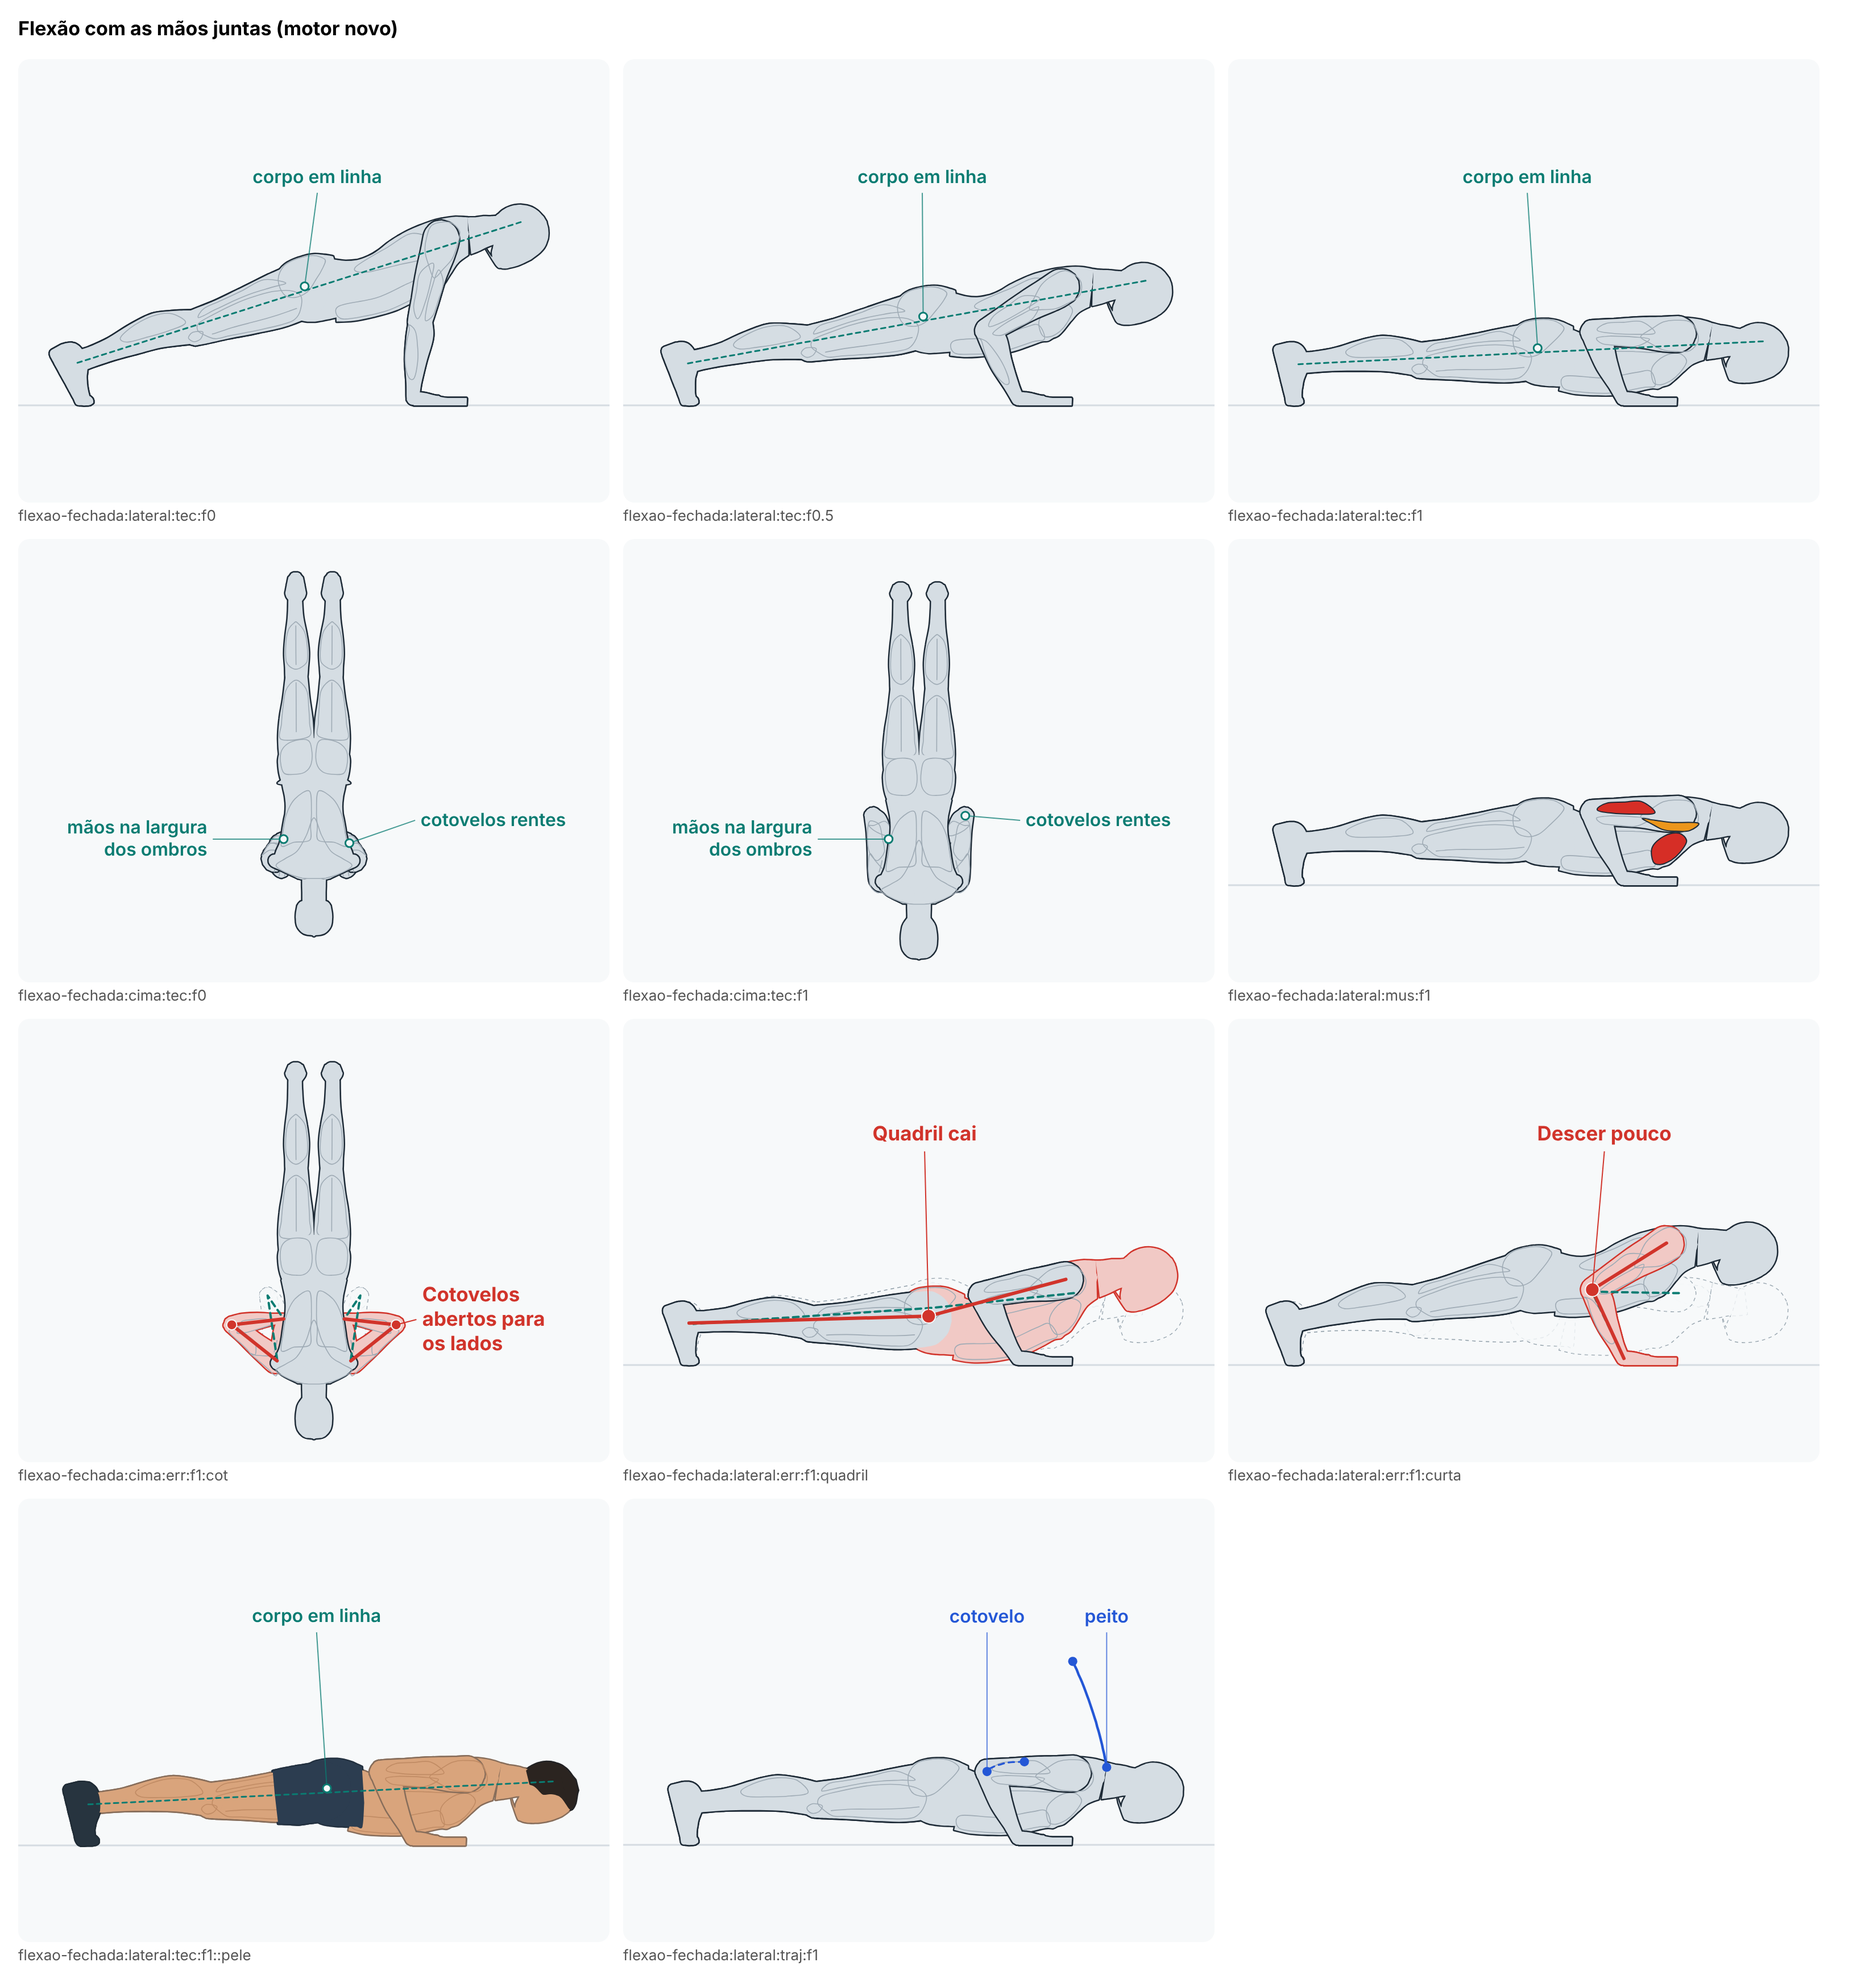
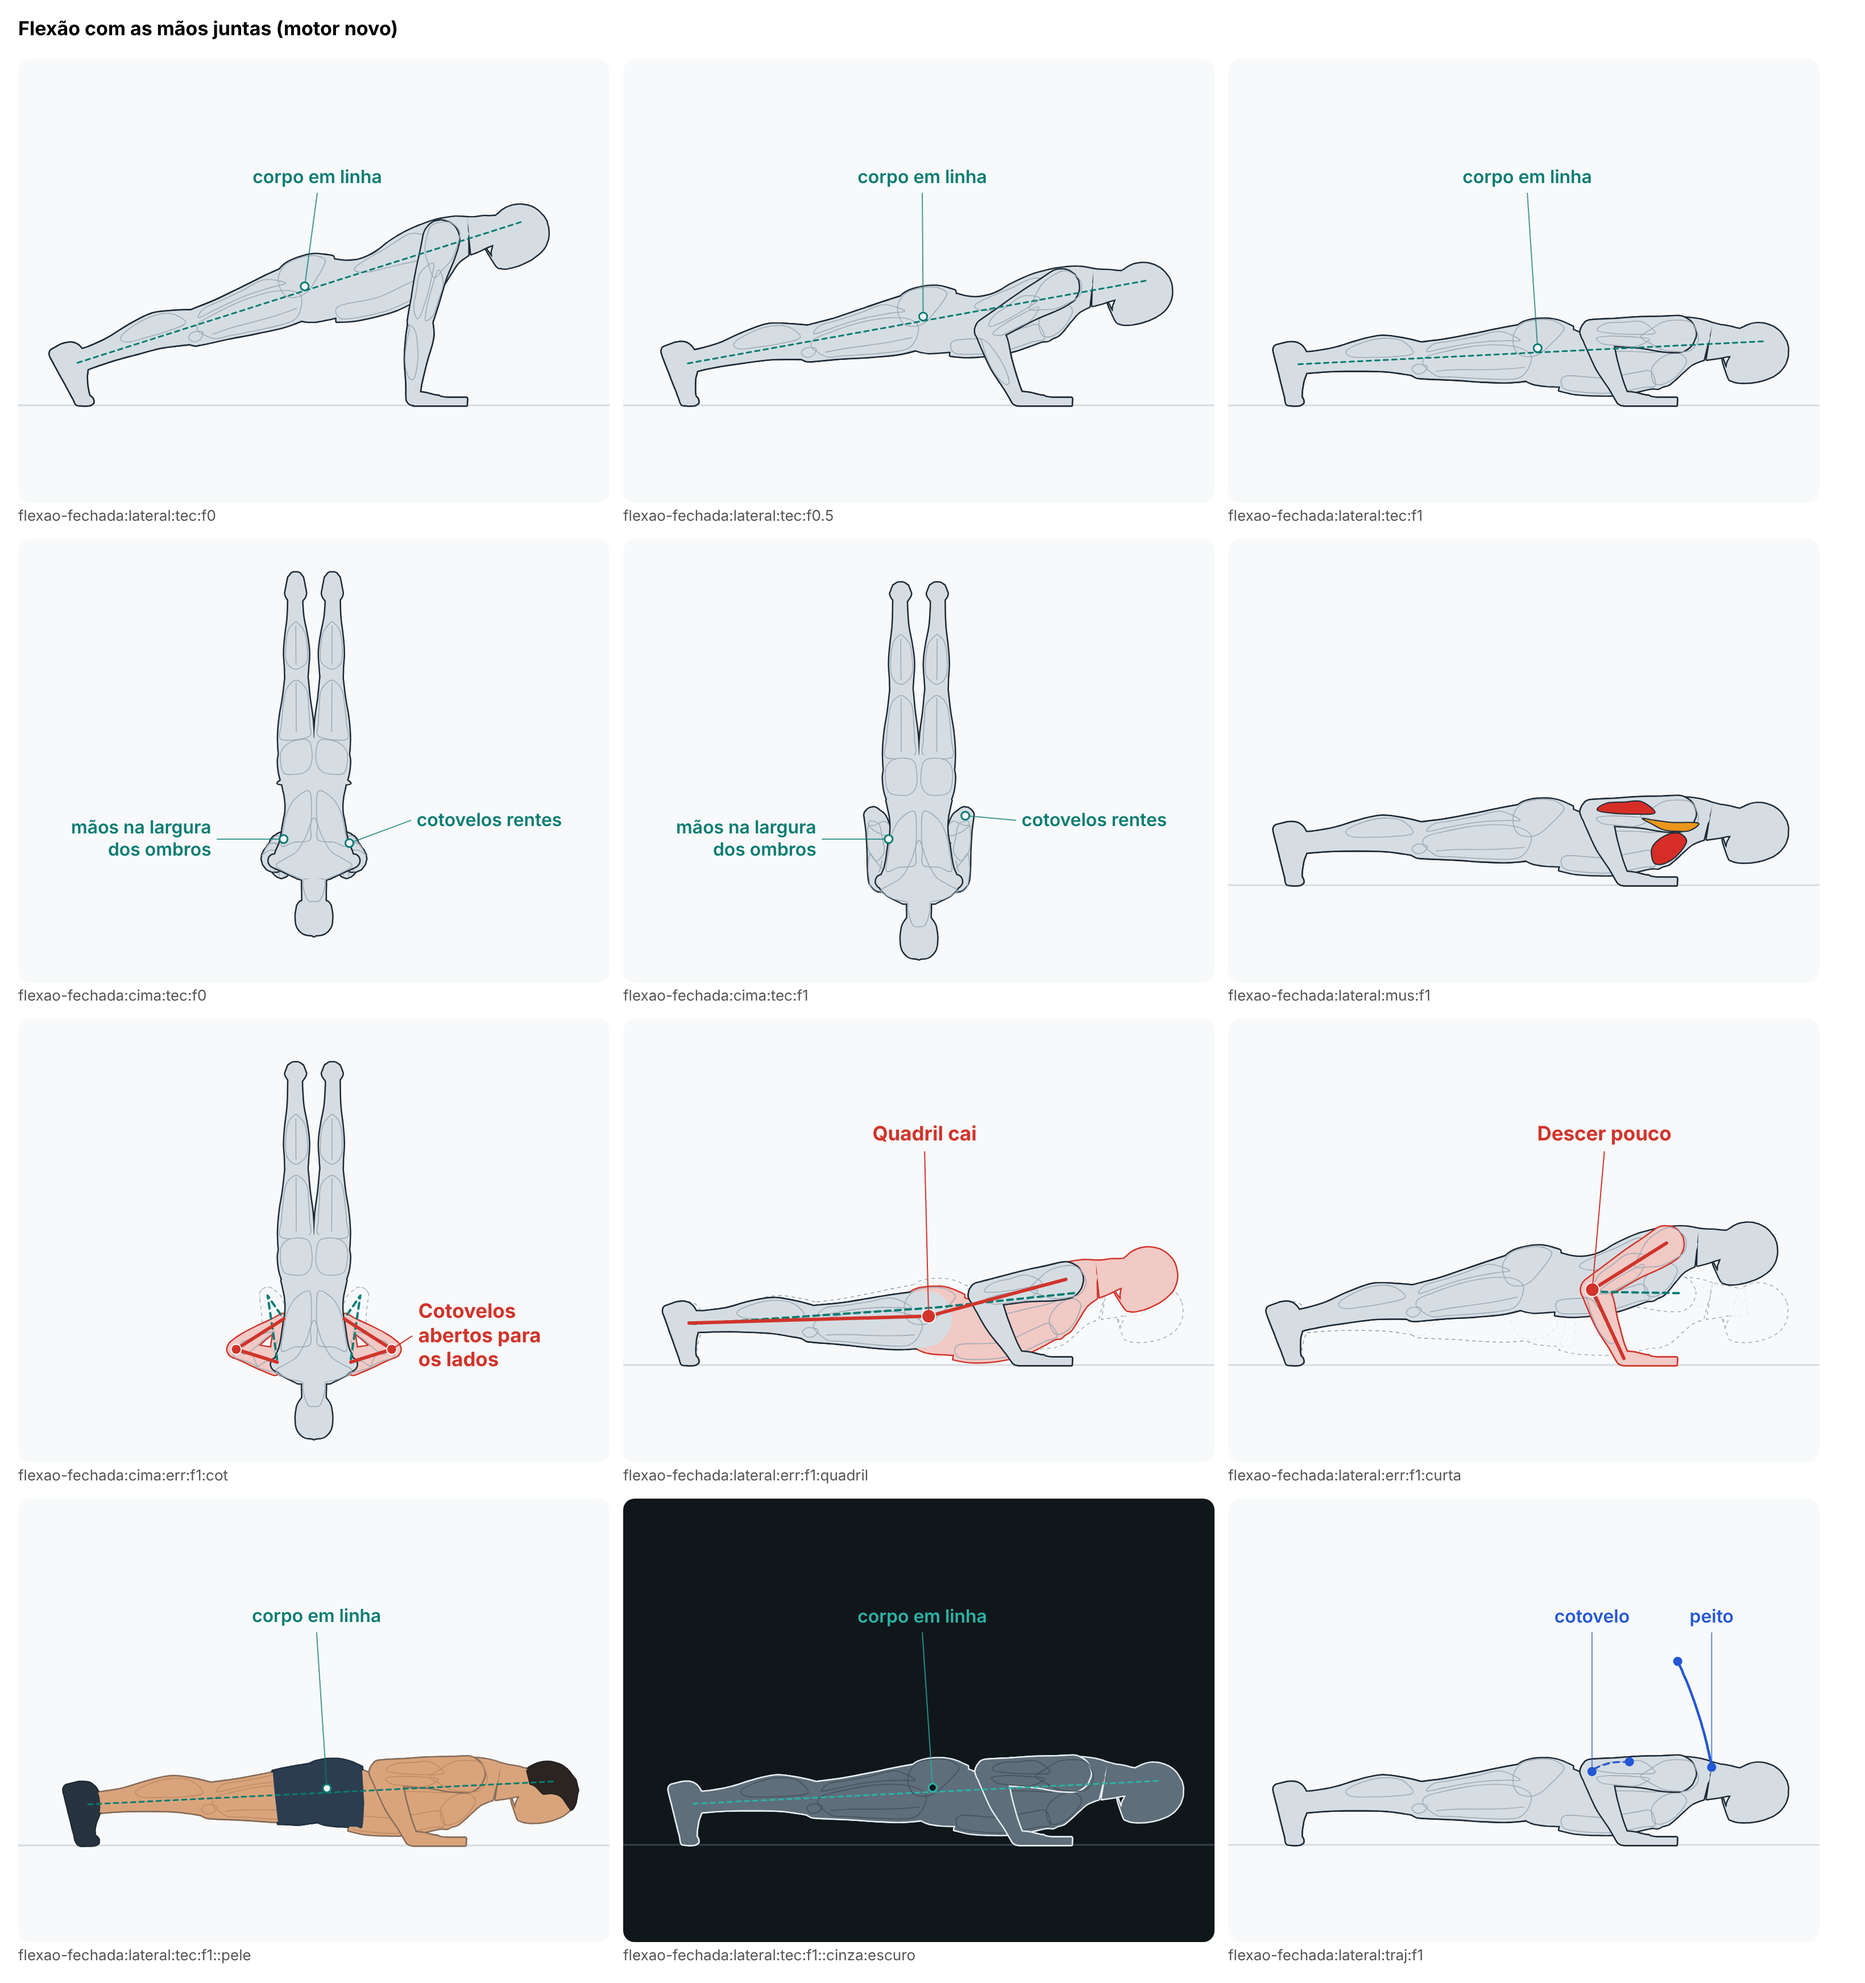
Correção: flexão com as mãos juntas com o erro dos cotovelos tão aberto quanto o da flexão
Os nove itens do padrão conferidos nos quadros grandes; a vista de cima fica (a de
três quartos e a de frente foram testadas e se leem pior).

Claude-Session: https://claude.ai/code/session_01YRzts7dTzBdkrmTDEnq8bW

diff --git a/docs/revisoes/animacao-nova/lote-2/flexao-fechada.md b/docs/revisoes/animacao-nova/lote-2/flexao-fechada.md
@@ -1,6 +1,6 @@
 # Lote 2 · Flexão de braço com as mãos juntas (`flexao-fechada`)
 
-De 15/11/2026. Primeira animação do lote 2 (as flexões). Ainda não aprovada nem ligada às telas do app.
+De 15/11/2026, revista na rodada de correção do mesmo dia (o erro dos cotovelos abre mais; os nove itens do padrão conferidos). Primeira animação do lote 2 (as flexões). Ainda não aprovada nem ligada às telas do app.
 
 - Ficha da técnica: `docs/pesquisa/animacoes/flexao-fechada.md`.
 - Ficha de movimento: `src/engine/novo/dados/movimentos/flexao-fechada.json`.
@@ -27,7 +27,7 @@ Conferência automática: **0 falha**. Avisos: extensão do punho 94,6° em cima
 
 | Erro (texto do app) | O que o boneco faz (medido) |
 |---|---|
-| Cotovelos abertos para os lados (de cima) | embaixo, o braço faz 51° com o tronco, visto de cima (o certo: 9°) |
+| Cotovelos abertos para os lados (de cima) | embaixo, o braço faz 72,5° com o tronco, visto de cima, como no erro da `flexao` (72°); o certo: 9° |
 | Quadril cai (de lado) | a lombar arqueia 16°; ombro, quadril e tornozelo fazem 167° (o certo: 178°); a barriga para a 1 cm do chão |
 | Descer pouco (de lado) | para na metade: o peito fica a 17 cm do chão e o cotovelo dobra 83° |
 
@@ -40,14 +40,23 @@ Principais: tríceps e peitoral; secundário: a frente do ombro (`deltAnt`), com
 - 12/11/2026: o abdômen firma a prancha, mas fica fora do desenho até a decisão do Gustavo. Respeitada.
 - As correções da `flexao` (mãos para fora dos ombros, o quadril que não atravessa o chão no erro) valem pelo núcleo comum; aqui as mãos ficam de propósito por dentro.
 
-## O que não ficou bom
+## Os nove itens do padrão (seção 8 do guia), nos quadros grandes
 
-- **As mãos não ficam tão embaixo do peito quanto a ficha diz.** Com 16 cm (a parte de baixo do peito), em cima o punho dobra 96,8°, acima do máximo observado (95°), e a conferência falha. Ficou em 14 cm, a 3,5 cm da linha dos mamilos: é mais "embaixo do peito" que "embaixo da parte de baixo do peito". Mesmo assim o punho fica a 0,4° do máximo, em aviso.
-- **O erro "cotovelos abertos" abre só até 51°** (na `flexao`, 72°): com as mãos juntas, o cotovelo não tem para onde ir sem a mão sair do lugar. De cima ele se lê, mas é menos gritante que o da `flexao`.
-- **De cima, embaixo, os cotovelos quase somem** sob o tronco: o rótulo "cotovelos rentes" aponta para uma ponta de cotovelo pequena.
-- **De cima, o modo Músculos não serve** (o tríceps e o peito ficam por baixo do corpo).
-- O ângulo do cotovelo (12° de direção) é o do desenho de hoje: a ficha não dá número; a regra medida é "abaixo dos 30° da faixa a meio caminho".
+1. **Corpo:** a prancha da `flexao` aprovada; nada atravessa o chão.
+2. **Rosto:** embaixo, a cabeça fica a 7,9 cm do chão.
+3. **Quadro:** o corpo ocupa o quadro como na `flexao`.
+4. **Vistas:** de lado e de cima (as mãos na largura dos ombros e os cotovelos rentes, como a ficha pede, "vista de cima"). Testei de três quartos (`quina`, `quinaTras`) e de frente: na de três quartos, os fios dos rótulos cruzam o braço, e o erro dos cotovelos aponta para quem olha; de frente, o corpo vira um borrão. Fica a de cima.
+5. **Equipamento:** não tem.
+6. **Mãos:** espalmadas no chão.
+7. **Erros:** os três se leem. Na correção, o dos cotovelos passou de 51° para 72,5°, como o da `flexao`.
+8. **Rótulos:** um de lado e dois de cima, fora do corpo.
+9. **Tema escuro e cor de pele:** olhados.
+
+## O que não ficou bom (com o que tentei)
+
+- **As mãos ficam um pouco mais perto do ombro do que a ficha diz** (14 cm, e não 16): com 16 cm, em cima o punho dobra 96,8°, acima do máximo observado (95°). Não se vê no quadro.
+- **De cima, o modo Músculos não serve** (o tríceps e o peito ficam por baixo do corpo); a vista de lado é a do modo Músculos (145 cm²).
 
 ## Risco de o Gustavo não gostar
 
-**Baixo.** É a `flexao` aprovada com as mãos e os cotovelos trocados, como a ficha manda; as diferenças com a de hoje são pequenas e todas medidas. O ponto que ele pode estranhar é o erro dos cotovelos, mais discreto que o da `flexao`.
+**Baixo.** É a `flexao` aprovada com as mãos e os cotovelos trocados, como a ficha manda; as diferenças com a de hoje são pequenas e todas medidas. O erro dos cotovelos agora abre como o da `flexao`.
